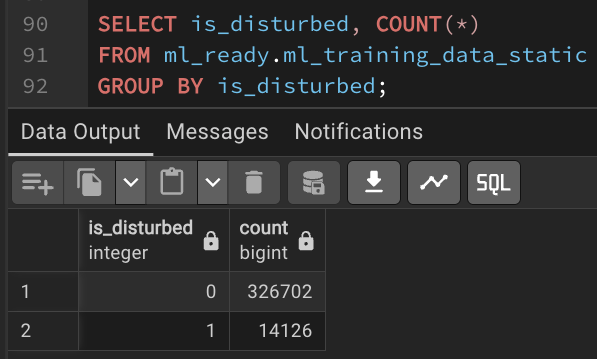
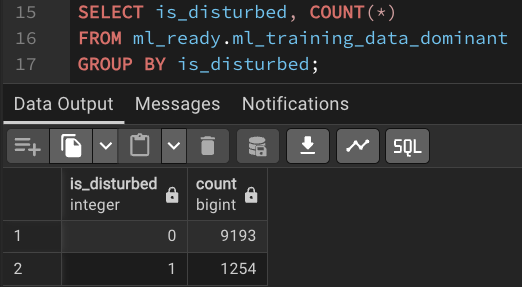
ml_table now ranks tree by plot, selects tallest; updated READ.md

diff --git a/READ.md b/READ.md
@@ -65,7 +65,7 @@ With the remote sensing data aligned with the field survey information, query lo
 ![Drop Create Schemas](project_screenshots/drop_create_schemas.png)
 
 9. **Joins and SQL logic for ML ingestion**
-![ML Data Table Query](project_screenshots/ML_data_table_query.png)
+![ML Data Table Query](project_screenshots/create_ranked_ml_ready.png)
 
 ### **Database Schema Preview**
 | Overview Schema | ML Ready Schema | Raw Data Schema |
@@ -82,7 +82,8 @@ With the remote sensing data aligned with the field survey information, query lo
 | **Data Type Mismatches:** Integer columns containing numbers as strings like `"972.0"`. | Casted across datatypes on multiple fieldes process account for decimals during ETL. |
 | **Query Performance:** At first, joining the tabular and raster data caused the query to timeout before completion. | Created **GIST Spatial Indexes** on the plot geometries and so that it would no longer need to scan full table to find each row. |
 | **Time Discrepancies:** Comparing 1980 field survey data to 2020 satellite imagery. | Filtered dataset for `invyr >= 2015` and added a QA flagging system. |
-| **Species Code Meaning:** Attempting to work answer questions about the data proved was complicated by the species codes being only numeric. | Downloaded, cleaned, and integrated the species reference list to the schema. | 
+| **Species Code Meaning:** Attempting to answer questions about the data was complicated by the species codes being only numeric. | Downloaded, cleaned, and integrated the species reference list to the schema. | 
+| **Satellite Canopy Height vs Understory:** I became concered about the 'sat_ht_ft' value being applied to such a wide number of trees in a given plot. Upon investigating, it sounds like a common issue when relying on 10-m LiDAR resolution in forestry research. Telling the ML model that a slew of trees measured at 15 feet in the field produced a satellite height measuremnt of 70 feet is liable to confuse the model as these are more or less false positives. | Made the executive decision to rank tree height within each plot. This shrinks the total record count dramaticallly - from approximately 340k records to just over 10,000. I'd rather feed the model meaningful, high-value data than overwhelm it with noise. | 
 
 * a data dictionary of sorts that simply guides users through the meaning/content of a given table or record would be handy |
 * perhaps 7 years of forest growth is considered too much time. Should I have limited the survey history further?
@@ -92,7 +93,9 @@ With the remote sensing data aligned with the field survey information, query lo
 
 ## Data Quality Assurance
 
-Implemented a quality check that dynamically flags records to ensure the ML model only trains on high-integrity data as well as classifiying those records into "stable" or "disturbed". This distinction will be key to the ML model. Instead of looking at the vast majority of Tennessee trees and predicting height based on a regression model, it is more interesting to work with the would-be outliers in an attempt to identify areas that display significant disturbance. This was done inside of the case statement within the create_ML_ready_table query. 
+This analysis encounted a crossroads of sorts when it came time to decide whether or not it would be worth injecting every individual tree surveyed in a given plot or to keying on the taller (or tallest) trees that would've been registed in the remote sensing data. The SQL was revised so that a ranking system was applied to each tree (by plot_id) of the entire cleaned dataset. This enabled me to make a comparisson of field to raster data with much more truth while avoiding the noise of several hundred thousand trees whose data are not reflected in the LiDAR data. 
+
+To acheive this, I implemented a quality check, embedded as a CASE statement, that dynamically flags records to ensure the ML model only trains on high-integrity data as well as classifiying those records as "stable" or "disturbed". The ranking was handled by moving this logic inside of a CTE then selecting and filtering based on that logged data.
 
 ![Disturbed Count](project_screenshots/disturbed_count.png)
 
